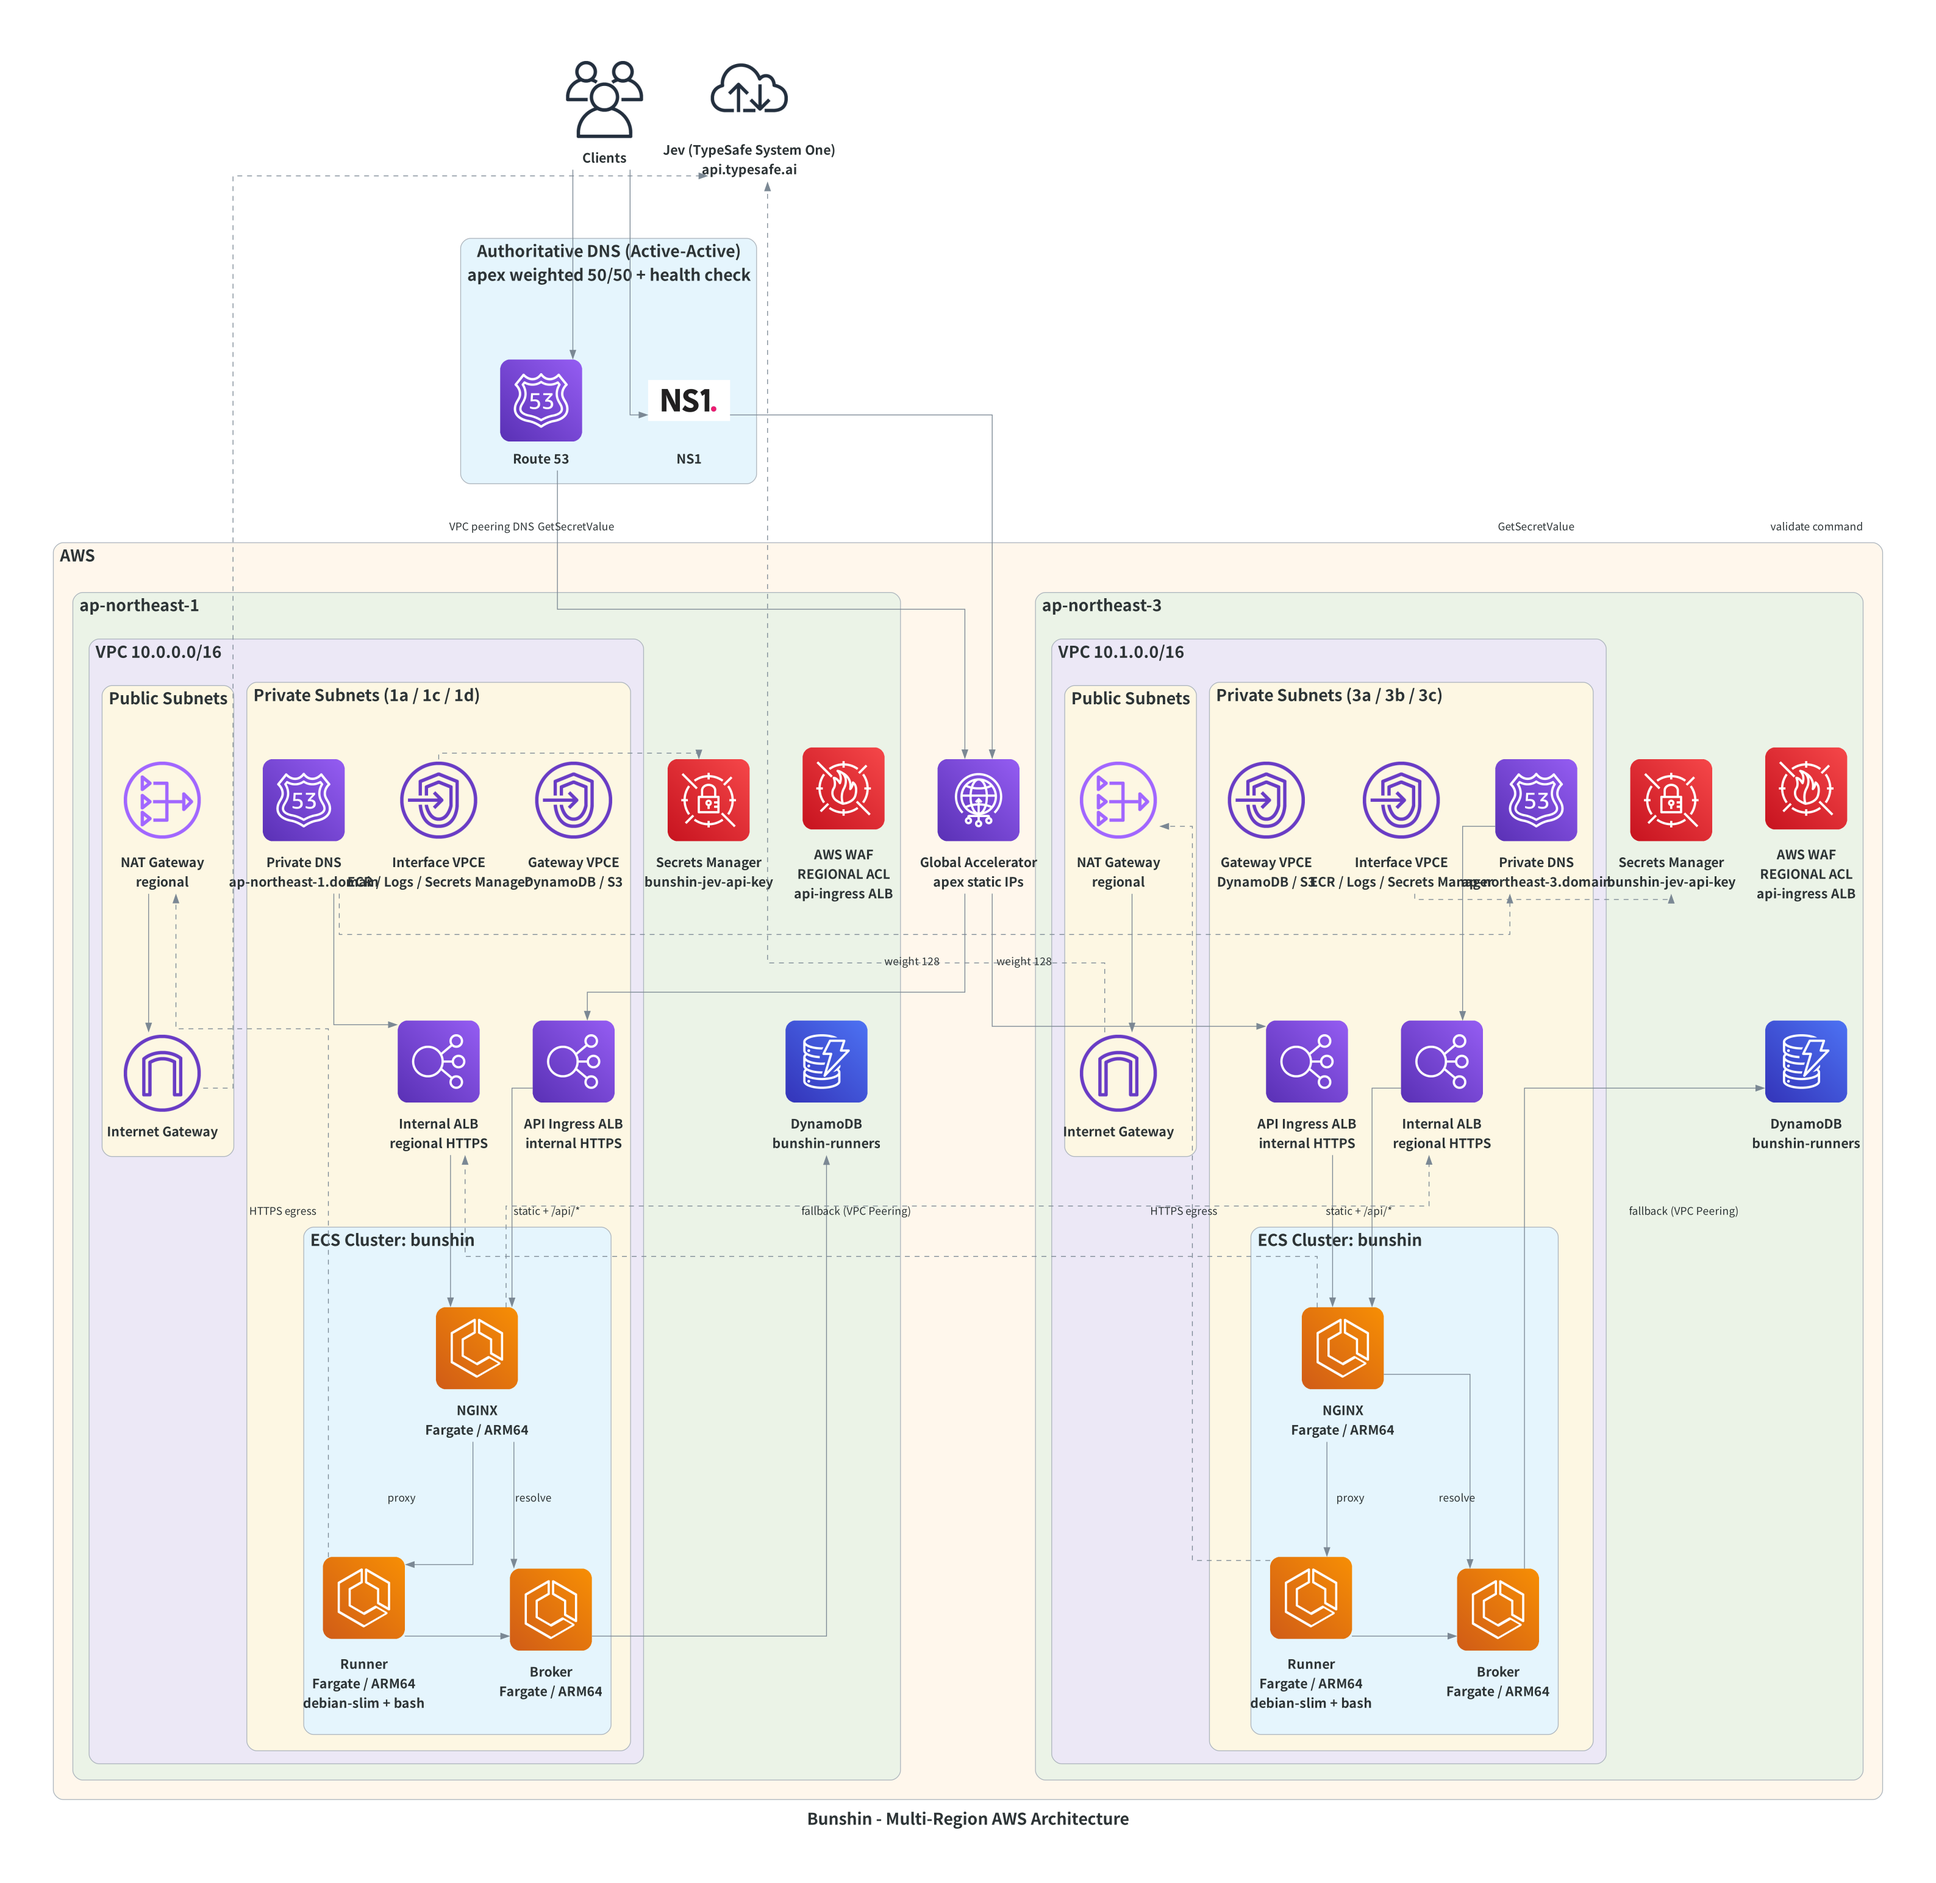
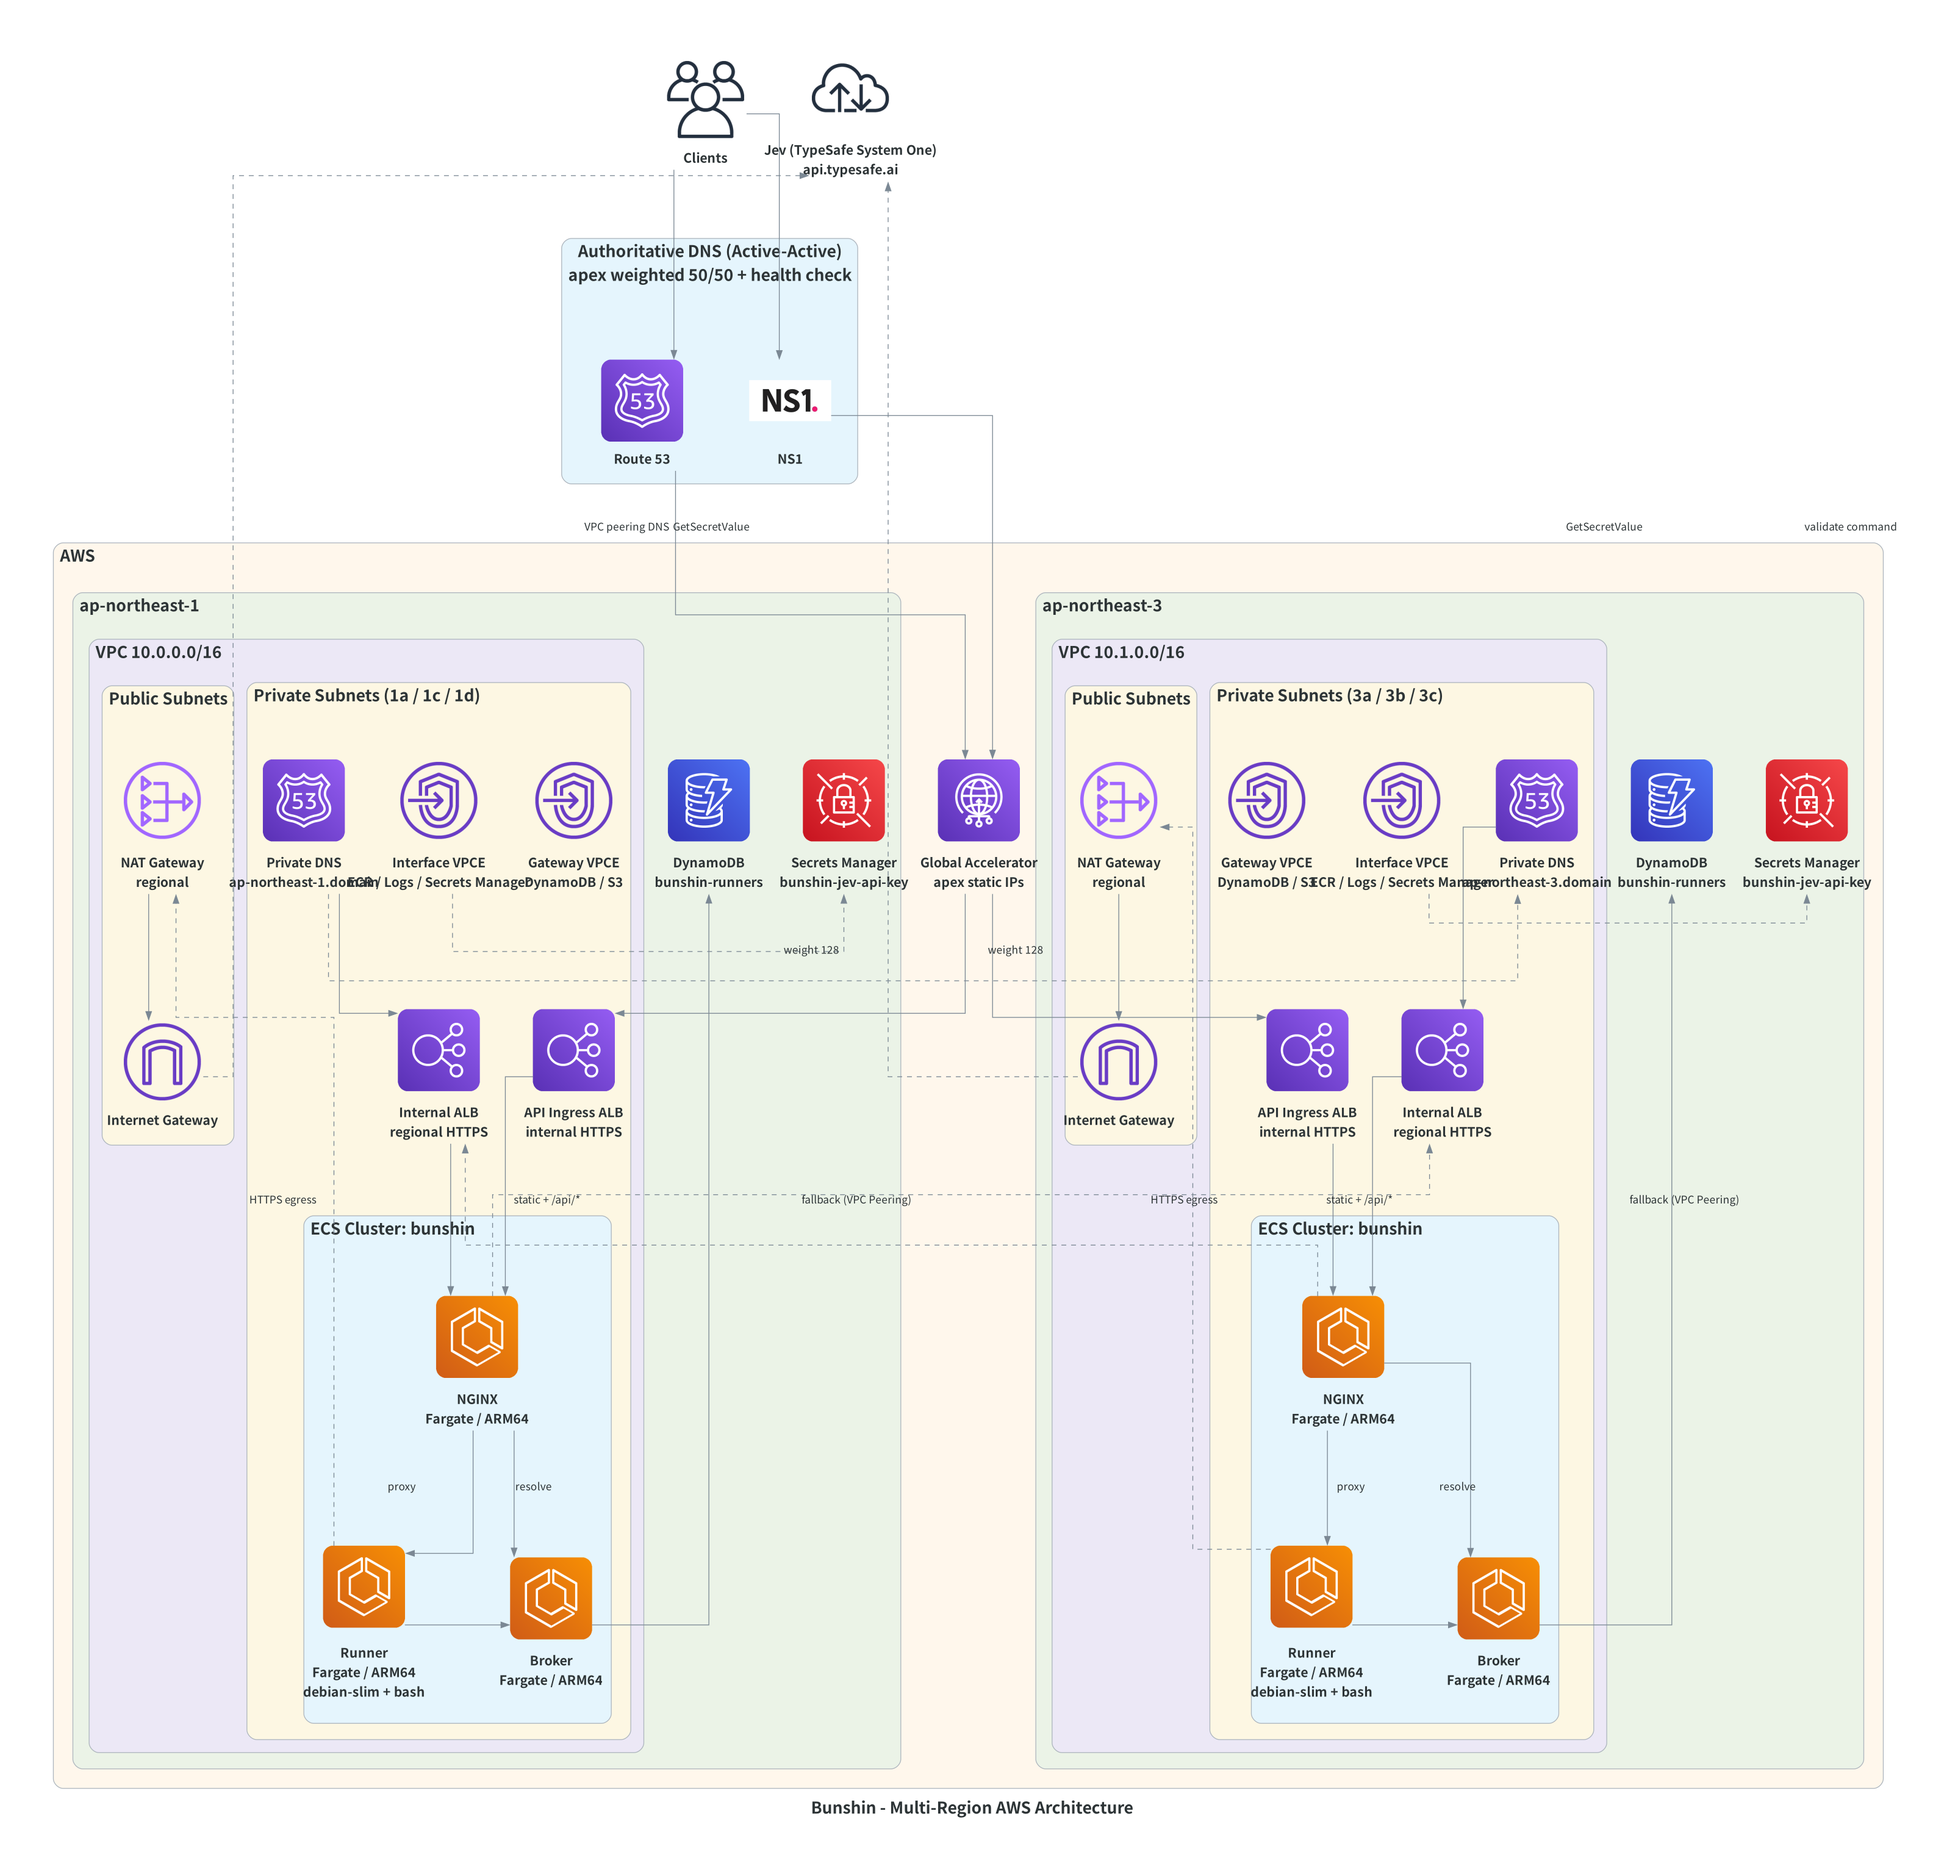
refactor(terraform): drop the waf in front of the api ingress alb

diff --git a/docs/architecture_diagram.py b/docs/architecture_diagram.py
@@ -13,7 +13,7 @@ from diagrams.aws.network import (
     NATGateway,
     Route53,
 )
-from diagrams.aws.security import WAF, SecretsManager
+from diagrams.aws.security import SecretsManager
 from diagrams.custom import Custom
 from diagrams.onprem.client import Users
 from diagrams.onprem.network import Internet
@@ -49,7 +49,6 @@ NS1_ICON = str(HERE / "ns1_icon.png")
 
 def aws_region(name: str, cidr: str, azs: str) -> dict[str, object]:
     with Cluster(name, graph_attr={**CLUSTER_FONT, "margin": "20"}):
-        waf = WAF("AWS WAF\nREGIONAL ACL\napi-ingress ALB")
         ddb = Dynamodb("DynamoDB\nbunshin-runners")
         secret = SecretsManager("Secrets Manager\nbunshin-jev-api-key")
 
@@ -85,7 +84,6 @@ def aws_region(name: str, cidr: str, azs: str) -> dict[str, object]:
 
         broker >> Edge(constraint="false") >> ddb
         vpce_interface >> Edge(label="GetSecretValue", style="dashed", constraint="false") >> secret
-        waf >> Edge(style="invis") >> ddb
 
     return {
         "api_alb": api_alb,
